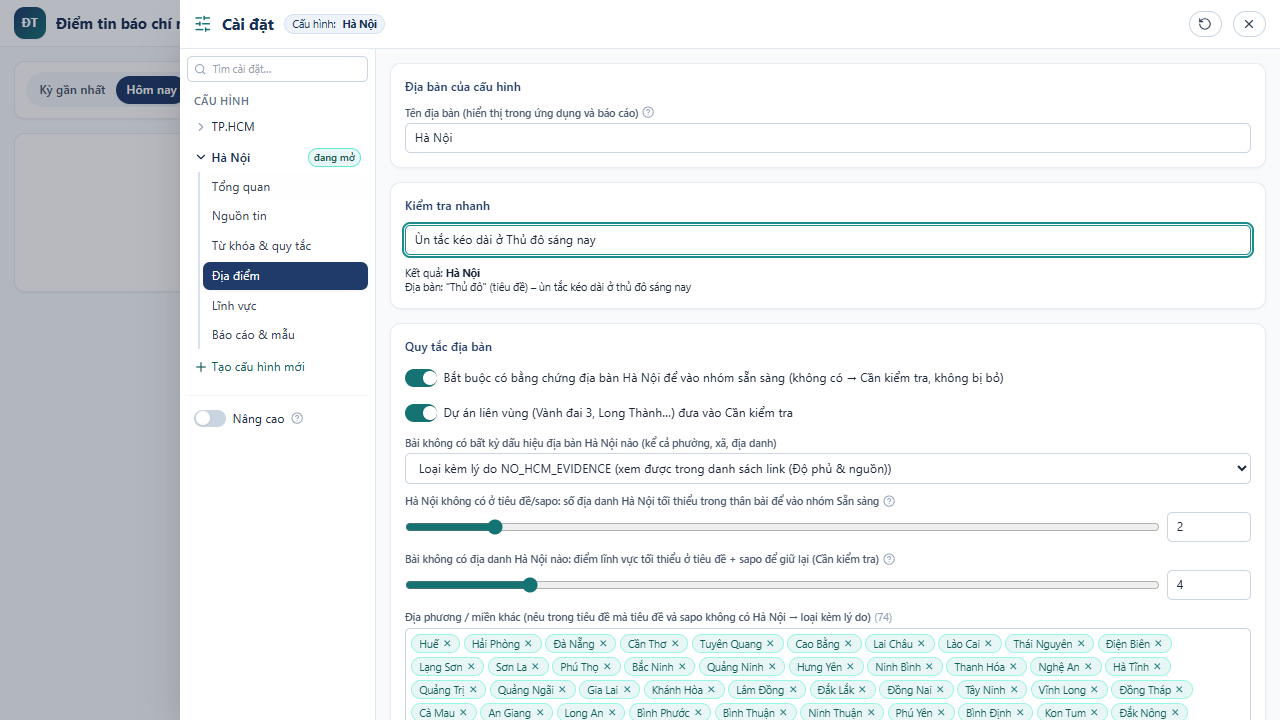
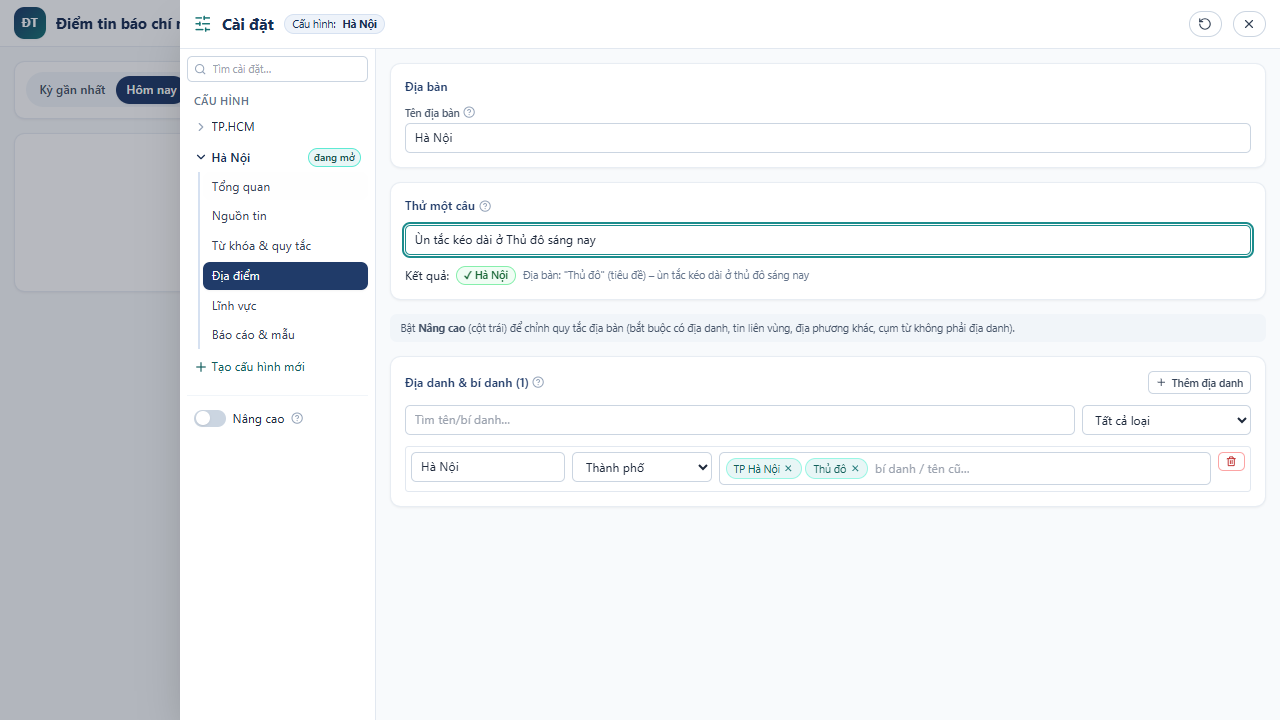
Settings step 3: Địa điểm, Lĩnh vực, Báo cáo & mẫu – basic view for everyday use, technical options under Nâng cao

diff --git a/web/src/Settings.tsx b/web/src/Settings.tsx
@@ -224,15 +224,15 @@ export function SettingsDrawer({ open, onClose, onSaved, initialSection }: { ope
             ) : nav === 'rules' ? (
               <RulesPanel s={s} setS={setS} sources={src} advanced={advanced} />
             ) : nav === 'location' ? (
-              <LocationPanel s={s} up={up} />
+              <LocationPanel s={s} up={up} advanced={advanced} />
             ) : nav === 'categories' ? (
-              <CategoriesPanel s={s} setS={setS} />
+              <CategoriesPanel s={s} setS={setS} advanced={advanced} />
             ) : nav === 'time' ? (
               <TimePanel s={s} up={up} />
             ) : nav === 'quality' ? (
               <QualityPanel s={s} up={up} />
             ) : nav === 'report' ? (
-              <ReportPanel s={s} up={up} />
+              <ReportPanel s={s} up={up} advanced={advanced} />
             ) : nav === 'performance' ? (
               <PerfPanel s={s} up={up} />
             ) : (
@@ -426,7 +426,7 @@ function RulesPanel({ s, setS, sources, advanced }: { s: Settings; setS: (fn: (p
 const KIND_LABEL: Record<LocationArea['kind'], string> = {
   city: 'Thành phố', ward: 'Phường', commune: 'Xã', special_zone: 'Đặc khu', landmark: 'Địa danh/công trình', legacy_district: 'Quận/huyện cũ', custom: 'Tùy chỉnh', connected_area: 'Liên vùng (cần kiểm tra)',
 };
-function LocationPanel({ s, up }: { s: Settings; up: Up }) {
+function LocationPanel({ s, up, advanced }: { s: Settings; up: Up; advanced: boolean }) {
   const [q, setQ] = useState('');
   const [kind, setKind] = useState<string>('all');
   const [test, setTest] = useState('Kẹt xe kéo dài trên đường Phạm Văn Đồng');
@@ -437,17 +437,23 @@ function LocationPanel({ s, up }: { s: Settings; up: Up }) {
   const R = s.location.regionName;
   return (
     <div>
-      <Section title="Địa bàn của cấu hình">
-        <Field label="Tên địa bàn (hiển thị trong ứng dụng và báo cáo)" help="Ví dụ TP.HCM, Hà Nội, Đà Nẵng. Bộ lọc dùng danh sách địa danh & bí danh bên dưới, không chỉ tên này."><input className="input" value={R} onChange={(e) => up('location', { regionName: e.target.value })} /></Field>
+      <Section title="Địa bàn">
+        <Field label="Tên địa bàn" help="Ví dụ TP.HCM, Hà Nội, Đà Nẵng – hiện trong ứng dụng và báo cáo. Bộ lọc dùng danh sách địa danh & bí danh bên dưới."><input className="input" value={R} onChange={(e) => up('location', { regionName: e.target.value })} /></Field>
       </Section>
-      <Section title="Kiểm tra nhanh">
+      <Section title="Thử một câu" help="Gõ một tiêu đề để xem bộ lọc nhận ra địa bàn thế nào.">
         <input className="input" value={test} onChange={(e) => setTest(e.target.value)} aria-label="Câu thử địa bàn" />
-        <p className="text-xs">
-          Kết quả: <b>{r.status === 'hcm' ? R : r.status === 'connected' ? 'Liên vùng – cần kiểm tra' : r.status === 'other_province' ? 'Địa phương khác' : 'Chưa rõ – vào hàng Cần kiểm tra'}</b>
-          <br />
-          {r.evidence.join(' · ')}
+        <p className="flex flex-wrap items-center gap-2 text-sm">
+          Kết quả:{' '}
+          <span className={`chip text-xs font-semibold ${r.status === 'hcm' ? 'border-green-300 bg-green-50 text-green-800' : r.status === 'other_province' ? 'border-red-300 bg-red-50 text-red-700' : 'border-amber-300 bg-amber-50 text-amber-800'}`}>
+            {r.status === 'hcm' ? `✓ ${R}` : r.status === 'connected' ? 'Liên vùng – cần kiểm tra' : r.status === 'other_province' ? '✗ Địa phương khác' : 'Chưa rõ – vào hàng Cần kiểm tra'}
+          </span>
+          <span className="text-xs text-slate-500">{r.evidence.join(' · ')}</span>
         </p>
       </Section>
+      {!advanced && (
+        <p className="mb-4 rounded-lg bg-slate-100 px-3 py-2 text-xs text-slate-600">Bật <b>Nâng cao</b> (cột trái) để chỉnh quy tắc địa bàn (bắt buộc có địa danh, tin liên vùng, địa phương khác, cụm từ không phải địa danh).</p>
+      )}
+      {advanced && (
       <Section title="Quy tắc địa bàn">
         <Toggle checked={s.location.requireHcmEvidence} onChange={(v) => up('location', { requireHcmEvidence: v })} label={`Bắt buộc có bằng chứng địa bàn ${R} để vào nhóm sẵn sàng (không có → Cần kiểm tra, không bị bỏ)`} />
         <Toggle checked={s.location.connectedAreasForReview} onChange={(v) => up('location', { connectedAreasForReview: v })} label="Dự án liên vùng (Vành đai 3, Long Thành…) đưa vào Cần kiểm tra" />
@@ -477,6 +483,7 @@ function LocationPanel({ s, up }: { s: Settings; up: Up }) {
         <ChipEditor values={s.location.nationalSectorPhrases ?? []} onChange={(v) => up('location', { nationalSectorPhrases: v })} label={`Cụm từ tin toàn ngành (bài không có địa danh ${R} nhưng tiêu đề/sapo có cụm này vẫn vào Cần kiểm tra, ví dụ "Bộ Xây dựng")`} />
         <ChipEditor values={s.location.excludePhrases ?? []} onChange={(v) => up('location', { excludePhrases: v })} label={`Cụm từ không phải địa bàn (bỏ qua khi tìm ${R}, ví dụ "giải thưởng Hồ Chí Minh", "ngân hàng Sài Gòn - Hà Nội")`} />
       </Section>
+      )}
       <Section
         title={`Địa danh & bí danh (${areas.length})`}
         help="Nguồn: danh sách đơn vị hành chính (NQ 1685/NQ-UBTVQH15). Tên dễ nhầm cần tiền tố phường/xã."
@@ -509,18 +516,35 @@ function LocationPanel({ s, up }: { s: Settings; up: Up }) {
 }
 
 /* ---------------- Categories ---------------- */
-function CategoriesPanel({ s, setS }: { s: Settings; setS: (fn: (p: Settings | null) => Settings | null) => void }) {
+function CategoriesPanel({ s, setS, advanced }: { s: Settings; setS: (fn: (p: Settings | null) => Settings | null) => void; advanced: boolean }) {
   const set = (code: string, p: Partial<Settings['categories'][number]>) => setS((x) => (x ? { ...x, categories: x.categories.map((c) => (c.code === code ? { ...c, ...p } : c)) } : x));
   return (
-    <Section title="Lĩnh vực chuyên môn" help="Chỉ là gợi ý phân loại theo từ khóa; biên tập viên luôn có thể đổi. Tính chất tin (Tồn tại/Tích cực/Trung lập) được phân loại độc lập.">
+    <div>
+    <Section title="Lĩnh vực" help="Bài được xếp vào lĩnh vực có từ khóa khớp nhiều nhất (chỉ là gợi ý, biên tập viên luôn đổi được). Tắt một lĩnh vực để không dùng nữa.">
+      <div className="grid gap-2">
       {[...s.categories].sort((a, b) => a.priority - b.priority).map((c) => (
-        <div key={c.code} className="rounded border border-slate-200 bg-white p-2" data-testid={`category-${c.code}`}>
-          <div className="grid gap-2 md:grid-cols-[auto_12rem_6rem_1fr]">
-            <Toggle checked={c.enabled} onChange={(v) => set(c.code, { enabled: v })} label={c.code} />
-            <input className="input" value={c.label} onChange={(e) => set(c.code, { label: e.target.value })} aria-label="Tên lĩnh vực" />
-            <input className="input" type="number" min={1} max={99} value={c.priority} onChange={(e) => set(c.code, { priority: e.target.valueAsNumber })} aria-label="Ưu tiên" />
-            <ChipEditor values={c.keywords} onChange={(v) => set(c.code, { keywords: v })} placeholder="từ khóa lĩnh vực…" />
+        <div key={c.code} className={`card animate-in p-3 ${c.enabled ? '' : 'bg-slate-50 opacity-70'}`} data-testid={`category-${c.code}`}>
+          <div className="mb-2 flex flex-wrap items-center gap-3">
+            <Toggle checked={c.enabled} onChange={(v) => set(c.code, { enabled: v })} label="" />
+            {advanced ? (
+              <>
+                <input className="input w-56" value={c.label} onChange={(e) => set(c.code, { label: e.target.value })} aria-label="Tên lĩnh vực" />
+                <label className="flex items-center gap-1 text-xs text-slate-500">
+                  Ưu tiên <input className="input w-16" type="number" min={1} max={99} value={c.priority} onChange={(e) => set(c.code, { priority: e.target.valueAsNumber })} aria-label="Ưu tiên" />
+                </label>
+                <span className="chip border-slate-200 bg-slate-50 font-mono text-[10px] text-slate-500">{c.code}</span>
+              </>
+            ) : (
+              <span className="font-semibold text-slate-800">{c.label}</span>
+            )}
+            {(c.requiresCategories ?? []).length > 0 && (
+              <span className="chip border-sky-200 bg-sky-50 text-[11px] text-sky-800" title="Chỉ tính khi tiêu đề/sapo có lĩnh vực đi kèm">
+                cần kèm: {c.requiresCategories.map((r) => s.categories.find((o) => o.code === r)?.label ?? r).join(' / ')}
+              </span>
+            )}
           </div>
+          <ChipEditor values={c.keywords} onChange={(v) => set(c.code, { keywords: v })} placeholder="thêm từ khóa…" />
+          {advanced && (
           <details className="mt-1" open={(c.requiresCategories ?? []).length > 0}>
             <summary className="cursor-pointer text-xs text-slate-600">
               Điều kiện thêm{(c.requiresCategories ?? []).length ? ` · chỉ tính khi tiêu đề/sapo có lĩnh vực khác (${c.requiresCategories.length})` : ''}{(c.excludePhrases ?? []).length ? ` · bỏ qua ${c.excludePhrases.length} cụm từ` : ''}
@@ -549,9 +573,15 @@ function CategoriesPanel({ s, setS }: { s: Settings; setS: (fn: (p: Settings | n
               </div>
             </div>
           </details>
+          )}
         </div>
       ))}
+      </div>
     </Section>
+      {!advanced && (
+        <p className="mb-4 rounded-lg bg-slate-100 px-3 py-2 text-xs text-slate-600">Bật <b>Nâng cao</b> (cột trái) để đổi tên, thứ tự ưu tiên, lĩnh vực bắt buộc đi kèm và cụm từ bỏ qua của từng lĩnh vực.</p>
+      )}
+    </div>
   );
 }
 
@@ -622,7 +652,7 @@ function QualityPanel({ s, up }: { s: Settings; up: Up }) {
 }
 
 /* ---------------- Report ---------------- */
-function ReportPanel({ s, up }: { s: Settings; up: Up }) {
+function ReportPanel({ s, up, advanced }: { s: Settings; up: Up; advanced: boolean }) {
   const toast = useToast();
   const upEditorial = (p: Partial<Settings['editorial']>) => up('editorial', p);
   const [caps, setCaps] = useState<{ pdf: boolean; soffice: string | null; powerpoint?: string | null } | null>(null);
@@ -646,10 +676,10 @@ function ReportPanel({ s, up }: { s: Settings; up: Up }) {
   };
   return (
     <div>
-      <Section title={`Mẫu báo cáo có sẵn (${tpls.length})`} help="Mẫu Sở Xây dựng TP.HCM có sẵn trong ứng dụng – không cần tải gì. Tích mẫu mặc định; khi xuất vẫn tích được mẫu khác cho từng lần.">
+      <Section title="Mẫu mặc định" help="Mẫu dùng khi xuất báo cáo; lúc xuất vẫn chọn được mẫu khác cho từng lần.">
         <div className="space-y-1.5" role="radiogroup" aria-label="Mẫu mặc định khi xuất" data-testid="default-template-picker">
           {tpls.map((x) => (
-            <label key={x.id} className={`flex cursor-pointer items-start gap-2 rounded border p-2 text-sm ${x.id === s.report.templateId ? 'border-teal-600 bg-teal-50' : 'border-slate-200 hover:bg-slate-50'}`}>
+            <label key={x.id} className={`flex cursor-pointer items-start gap-2 rounded-xl border p-3 text-sm transition ${x.id === s.report.templateId ? 'border-teal-600 bg-teal-50 shadow-sm' : 'border-slate-200 bg-white hover:border-teal-300'}`}>
               <input type="radio" name="default-template" className="mt-1" value={x.id} checked={x.id === s.report.templateId} onChange={() => up('report', { templateId: x.id })} aria-label={x.name} />
               <span>
                 <span className="font-medium">{x.name}</span>
@@ -659,6 +689,27 @@ function ReportPanel({ s, up }: { s: Settings; up: Up }) {
             </label>
           ))}
         </div>
+        <label className="btn-ghost mt-2 w-fit cursor-pointer rounded-full text-xs" title="Chỉ cần khi muốn dùng một tệp .pptx khác (cùng cấu trúc mẫu Sở)">
+          <FileUp className="h-3.5 w-3.5" /> Dùng tệp mẫu .pptx riêng…
+          <input type="file" accept=".pptx" className="hidden" onChange={(e) => e.target.files?.[0] && upload(e.target.files[0])} />
+        </label>
+      </Section>
+      <Section title="Thông tin trên báo cáo">
+        <Field label="Tên cơ quan trên bìa"><input className="input" value={s.report.organization} onChange={(e) => up('report', { organization: e.target.value })} /></Field>
+        <Field label="Email phúc đáp (trang Kiến nghị)"><input className="input" value={s.report.contactEmail} onChange={(e) => up('report', { contactEmail: e.target.value })} /></Field>
+        <div>
+          <span className="label">Tệp xuất ra (tích sẵn khi xuất)</span>
+          <div className="flex flex-wrap gap-2">
+            {(['pptx', 'docx', 'pdf'] as const).map((f) => {
+              const on = s.report.outputFormats.includes(f);
+              return (
+                <label key={f} className={`flex cursor-pointer items-center gap-1.5 rounded-full border px-3 py-1 text-sm transition ${on ? 'border-teal-600 bg-teal-50 text-teal-900' : 'border-slate-200 bg-white text-slate-600'}`}>
+                  <input type="checkbox" className="accent-teal-600" checked={on} onChange={(e) => up('report', { outputFormats: e.target.checked ? [...s.report.outputFormats, f] : s.report.outputFormats.filter((x) => x !== f) })} /> .{f}
+                </label>
+              );
+            })}
+          </div>
+        </div>
       </Section>
       {s.report.templateFile && (
         <div className="mb-4 rounded border border-green-300 bg-green-50 p-3 text-xs text-green-900">
@@ -666,7 +717,9 @@ function ReportPanel({ s, up }: { s: Settings; up: Up }) {
         </div>
       )}
       <Section title="Đề xuất giao đơn vị cho tin Tồn tại cần khắc phục" help="Mỗi tin Tồn tại được gợi ý giao đơn vị của nhóm khớp nhất theo từ khóa (có trong tiêu đề = 3 điểm, chỉ trong sapo = 1 điểm). Biên tập viên vẫn sửa được từng tin.">
-        <div className="space-y-2" data-testid="assignment-rules">
+        <details>
+        <summary className="cursor-pointer select-none text-sm text-teal-700">{(s.editorial.assignmentRules ?? []).length} nhóm đơn vị – bấm để xem / sửa</summary>
+        <div className="mt-2 space-y-2" data-testid="assignment-rules">
           {(s.editorial.assignmentRules ?? []).map((r, i) => {
             const set = (p: Partial<typeof r>) => upEditorial({ assignmentRules: s.editorial.assignmentRules.map((x, j) => (j === i ? { ...x, ...p } : x)) });
             return (
@@ -691,26 +744,20 @@ function ReportPanel({ s, up }: { s: Settings; up: Up }) {
             <input className="input" value={s.editorial.assignmentFallback} onChange={(e) => upEditorial({ assignmentFallback: e.target.value })} />
           </Field>
         </div>
+        </details>
       </Section>
-      <Section title="Mẫu riêng (không bắt buộc) & thông tin cơ quan">
-        <p className="text-xs">Chỉ cần khi muốn dùng một tệp .pptx khác (cùng cấu trúc mẫu Sở). Mẫu riêng đang có: <b>{s.report.templateFile || 'không có – vẫn xuất bình thường bằng các mẫu có sẵn ở trên'}</b></p>
-        {api.mode !== 'local' && <p className="text-xs text-slate-600">Bản web: mẫu chỉ lưu trong <b>trình duyệt này</b> (không tải lên máy chủ); xuất báo cáo dựng ngay trong trình duyệt, ảnh báo gốc lấy qua máy chủ duyệt tin (cần đăng nhập). PDF: mở tệp .pptx bằng PowerPoint › Lưu thành PDF.</p>}
-        <label className="btn-ghost w-fit cursor-pointer">
-          <FileUp className="h-4 w-4" /> Tải mẫu .pptx
-          <input type="file" accept=".pptx" className="hidden" onChange={(e) => e.target.files?.[0] && upload(e.target.files[0])} />
-        </label>
-        <Field label="Dòng mô tả dưới tên ứng dụng"><input className="input" value={s.report.subtitle} onChange={(e) => up('report', { subtitle: e.target.value })} /></Field>
-        <Field label="Tên cơ quan trên bìa"><input className="input" value={s.report.organization} onChange={(e) => up('report', { organization: e.target.value })} /></Field>
-        <Field label="Email phúc đáp (trang Kiến nghị)"><input className="input" value={s.report.contactEmail} onChange={(e) => up('report', { contactEmail: e.target.value })} /></Field>
+      {!advanced && (
+        <p className="mb-4 rounded-lg bg-slate-100 px-3 py-2 text-xs text-slate-600">Bật <b>Nâng cao</b> (cột trái) để chỉnh tên tệp, số tin mỗi trang, bộ xuất PDF và các tùy chọn khác.</p>
+      )}
+      {advanced && (
+      <>
+      <Section title="Trình bày">
+        <p className="text-xs">Mẫu riêng đang có: <b>{s.report.templateFile || 'không có – vẫn xuất bình thường bằng các mẫu có sẵn'}</b>{api.mode !== 'local' ? ' (bản web: mẫu riêng chỉ lưu trong trình duyệt này)' : ''}</p>
+        <Field label="Tên hiển thị trên đầu trang"><input className="input" value={s.report.subtitle} onChange={(e) => up('report', { subtitle: e.target.value })} /></Field>
         <NumberField label="Số tin mỗi trang" value={s.report.storiesPerPage} min={1} max={4} onChange={(n) => up('report', { storiesPerPage: n })} />
         <Select label="Khi nội dung quá dài" value={s.report.overflowPolicy} onChange={(v) => up('report', { overflowPolicy: v })} options={[['new_slide', 'Thêm trang cùng loại'], ['warn_only', 'Chỉ cảnh báo, người duyệt rút gọn']]} />
       </Section>
-      <Section title="Xuất tệp">
-        <div className="flex gap-4">
-          {(['pptx', 'docx', 'pdf'] as const).map((f) => (
-            <label key={f} className="flex items-center gap-1 text-sm"><input type="checkbox" checked={s.report.outputFormats.includes(f)} onChange={(e) => up('report', { outputFormats: e.target.checked ? [...s.report.outputFormats, f] : s.report.outputFormats.filter((x) => x !== f) })} /> .{f}</label>
-          ))}
-        </div>
+      <Section title="Tệp & PDF">
         <Field label="Mẫu tên tệp" help="{date} = ngày báo cáo, {from}/{to} = giờ khung (HHmm)" error={!s.report.filenamePattern.includes('{date}') ? 'Nên có {date} để tránh trùng tên' : null}>
           <input className="input font-mono text-xs" value={s.report.filenamePattern} onChange={(e) => up('report', { filenamePattern: e.target.value })} />
         </Field>
@@ -718,13 +765,17 @@ function ReportPanel({ s, up }: { s: Settings; up: Up }) {
         <Field label="Đường dẫn POWERPNT.EXE (tùy chọn)"><input className="input font-mono text-xs" placeholder="C:\Program Files (x86)\Microsoft Office\root\Office16\POWERPNT.EXE" value={s.report.powerPointPath} onChange={(e) => up('report', { powerPointPath: e.target.value })} /></Field>
         <Field label="Đường dẫn soffice.exe (tùy chọn)"><input className="input font-mono text-xs" placeholder="C:\Program Files\LibreOffice\program\soffice.exe" value={s.report.libreOfficePath} onChange={(e) => up('report', { libreOfficePath: e.target.value })} /></Field>
         <p className="text-xs">
-          {caps
+          {s.report.pdfRenderer === 'builtin'
+            ? 'PDF dùng bộ xuất tích hợp sẵn – không cần PowerPoint hay LibreOffice.'
+            : caps
             ? caps.pdf
               ? [caps.powerpoint && `Microsoft PowerPoint: ${caps.powerpoint}`, caps.soffice && `LibreOffice: ${caps.soffice}`].filter(Boolean).join(' · ')
               : 'Chưa tìm thấy PowerPoint hay LibreOffice – xuất PDF sẽ báo không khả dụng.'
             : 'Không kiểm tra được bộ chuyển PDF.'}
         </p>
       </Section>
+      </>
+      )}
     </div>
   );
 }

diff --git a/tests/ui/app.spec.ts b/tests/ui/app.spec.ts
@@ -279,9 +279,9 @@ test('Profiles: create Hà Nội from the defaults, its own settings and runs, c
   await expect(dlg.getByTestId('nav-profile-hcm')).toContainText('TP.HCM'); // the other profile, one click away
   // its settings: region Hà Nội, location filter
   await dlg.getByRole('button', { name: 'Địa điểm', exact: true }).click();
-  await expect(dlg.getByLabel('Tên địa bàn (hiển thị trong ứng dụng và báo cáo)')).toHaveValue('Hà Nội');
+  await expect(dlg.getByLabel(/^Tên địa bàn/)).toHaveValue('Hà Nội');
   await dlg.getByLabel('Câu thử địa bàn').fill('Ùn tắc kéo dài ở Thủ đô sáng nay');
-  await expect(dlg.getByText('Kết quả: Hà Nội')).toBeVisible();
+  await expect(dlg.getByText('Kết quả:')).toContainText('✓ Hà Nội');
   await page.screenshot({ path: 'docs/screenshots/profiles-tree.png' });
   await dlg.getByRole('button', { name: 'Đóng cài đặt' }).click();
   await expect(page.getByLabel('Lượt đã lưu')).toHaveCount(0); // TP.HCM runs are not listed under Hà Nội
@@ -294,7 +294,7 @@ test('Profiles: create Hà Nội from the defaults, its own settings and runs, c
   await dlg.getByTestId('nav-profile-hcm').click();
   await expect(page.getByLabel('Cấu hình (profile)')).toHaveValue('hcm');
   await expect(dlg.getByTestId('nav-this-profile')).toContainText('TP.HCM');
-  await expect(dlg.getByLabel('Tên địa bàn (hiển thị trong ứng dụng và báo cáo)')).toHaveValue('TP.HCM');
+  await expect(dlg.getByLabel(/^Tên địa bàn/)).toHaveValue('TP.HCM');
 
   // clone TP.HCM without switching: it appears in the tree
   await dlg.getByRole('button', { name: 'Tổng quan', exact: true }).click();

diff --git a/tests/ui-live/review.spec.ts b/tests/ui-live/review.spec.ts
@@ -290,8 +290,12 @@ test('web profiles: create Đà Nẵng (stored by the worker), own settings + ow
   await expect(own).toContainText('Đà Nẵng');
   for (const l of ['Nguồn tin', 'Từ khóa & quy tắc', 'Địa điểm', 'Lĩnh vực']) await expect(own.getByRole('button', { name: l, exact: true })).toBeVisible();
   await own.getByRole('button', { name: 'Lĩnh vực', exact: true }).click();
-  // "Chính sách, pháp quy" counts only with a construction/transport sector in the title/sapo – a UI setting, not a file
+  // basic view: name, on/off and keywords; the requirement is shown as a small "cần kèm" chip
   const pol = dlg2.getByTestId('category-POLICY');
+  await expect(pol).toContainText('cần kèm: Xây dựng / Giao thông');
+  await expect(pol.getByRole('group', { name: /Lĩnh vực bắt buộc đi kèm/ })).toHaveCount(0);
+  // "Chính sách, pháp quy" counts only with a construction/transport sector in the title/sapo – a UI setting (Nâng cao), not a file
+  await dlg2.getByRole('switch', { name: 'Nâng cao' }).click();
   await expect(pol.getByRole('group', { name: /Lĩnh vực bắt buộc đi kèm/ }).getByLabel('Xây dựng')).toBeChecked();
   await expect(pol.getByRole('group', { name: /Lĩnh vực bắt buộc đi kèm/ }).getByLabel('Giao thông')).toBeChecked();
   await dlg2.getByTestId('category-TRAFFIC').locator('summary').click();

diff --git a/PROGRESS.md b/PROGRESS.md
@@ -7,7 +7,14 @@
 - Last session: 2026-11-16 (session 13) – hourly cloud runs continue the published period; label evaluation fixed
 - The user (GitHub `bccuong`) has authorised commits/pushes to this repo and GitHub Pages/Actions for this project.
 
-## ▶ RESUME HERE (session 14c – filter words checked on the team labels; Settings step 2 = Từ khóa & quy tắc; 2026-11-17)
+## ▶ RESUME HERE (session 14d – Settings step 3: Địa điểm, Lĩnh vực, Báo cáo & mẫu; 2026-11-17)
+- Địa điểm: basic = region name, "Thử một câu" with a coloured result chip, places & aliases list; rules (bắt buộc địa danh, liên vùng, địa phương khác, cụm từ…) under Nâng cao.
+- Lĩnh vực: basic = card per sector with switch, name and keyword chips + "cần kèm: …" chip; name/priority/code, required sectors and ignored phrases under Nâng cao.
+- Báo cáo & mẫu: basic = default template cards (+ "Dùng tệp mẫu .pptx riêng…"), organisation, reply e-mail, output-file pills, assignment groups folded; subtitle, stories per page, overflow, file name pattern, PDF renderer/paths under Nâng cao (PDF note now mentions the built-in PDF).
+- Tests: vitest 143/143, playwright 12/12, live 8/8.
+- Next: optional polish of article cards (fewer chips) and Inspector; keep re-running scripts/eval-filter.ts as labels grow.
+
+## (history) Session 14c – filter words checked on the team labels; Settings step 2 = Từ khóa & quy tắc; 2026-11-17)
 - User's list (TPHCM; xây dựng, bất động sản, nhà ở, hạ tầng, giao thông, kẹt xe, ngập lụt, mưa, triều cường, xây dựng sai phép, không phép, chất lượng công trình): "mưa" (only "mưa lớn"), "sai phép", "không phép" were missing.
 - New tool: scripts/eval-filter.ts replays the filter on every published story and scores it on labels/labels.json (precision of "Sẵn sàng", recall = labelled-relevant not excluded). Before: 93% / 81% (1,021 stories, 111 labels). After: 100% (30/30) / 93% (39/42); the 3 left: other province, UK, a traffic fine without sector words.
 - Changes (schemas.ts, one-time upgrades of saved configs; defaults.ts for new ones): category keywords rev 3 (BUILD + sai phép/không phép/trật tự xây dựng/quy hoạch đô thị…/mất an toàn; FLOOD + mưa, ngập lụt; REALESTATE + nhà xã hội, nhà xưởng; TRAFFIC + CSGT, vi phạm/tai nạn giao thông, phạt nguội), removals ("vi phạm", "an toàn" from BUILD), INFRA: requirement dropped again (it lost "Công viên Thiên niên kỷ…", in the department's sample report) and look-alikes excluded (hạ tầng số/sạc…, kênh truyền hình/đầu tư…, Rạch Giá/Rạch Dừa…); INVEST/POLICY keep BUILD/TRAFFIC. Topic words + default rule terms (topicRev / presetRev 2), title exclusion "Điểm tin".
